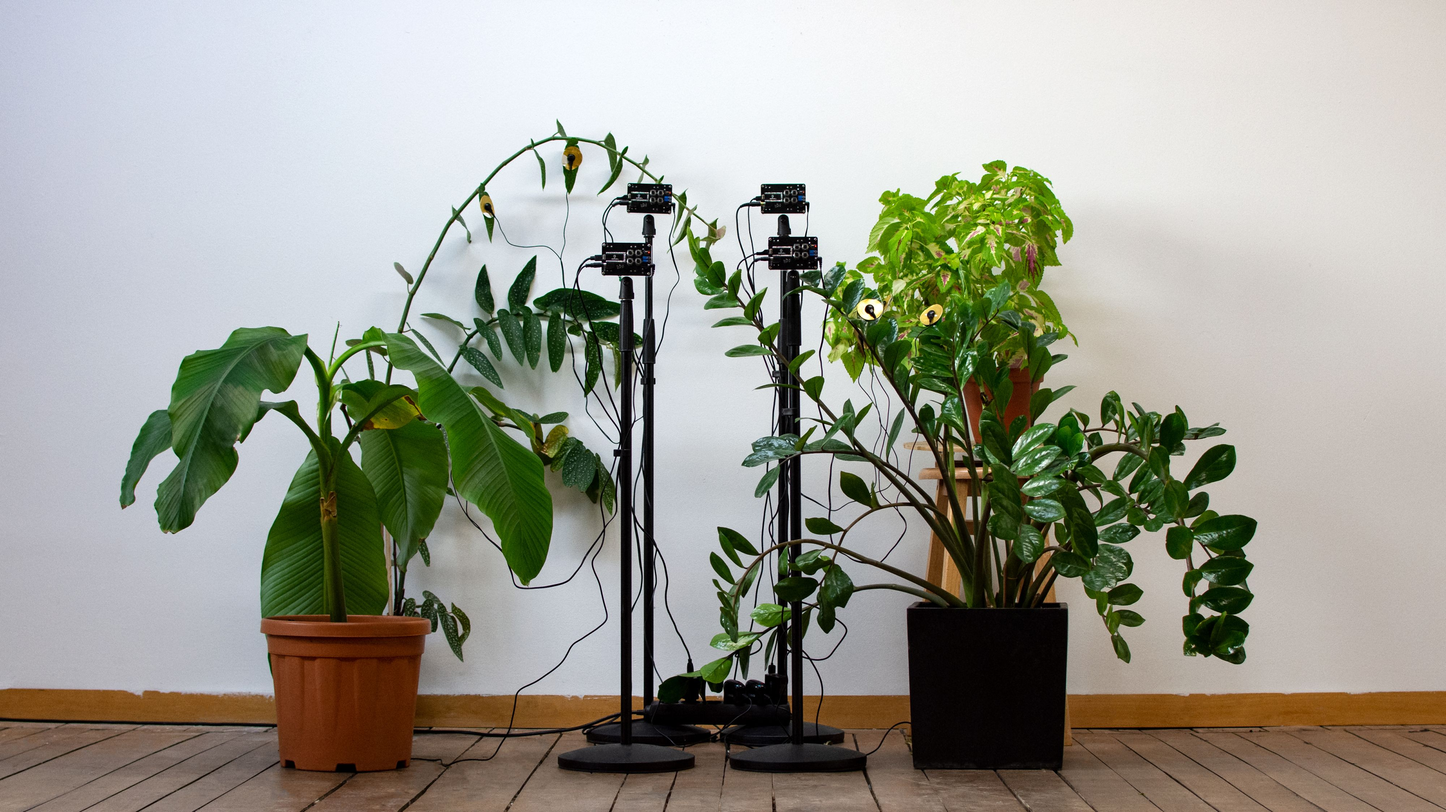
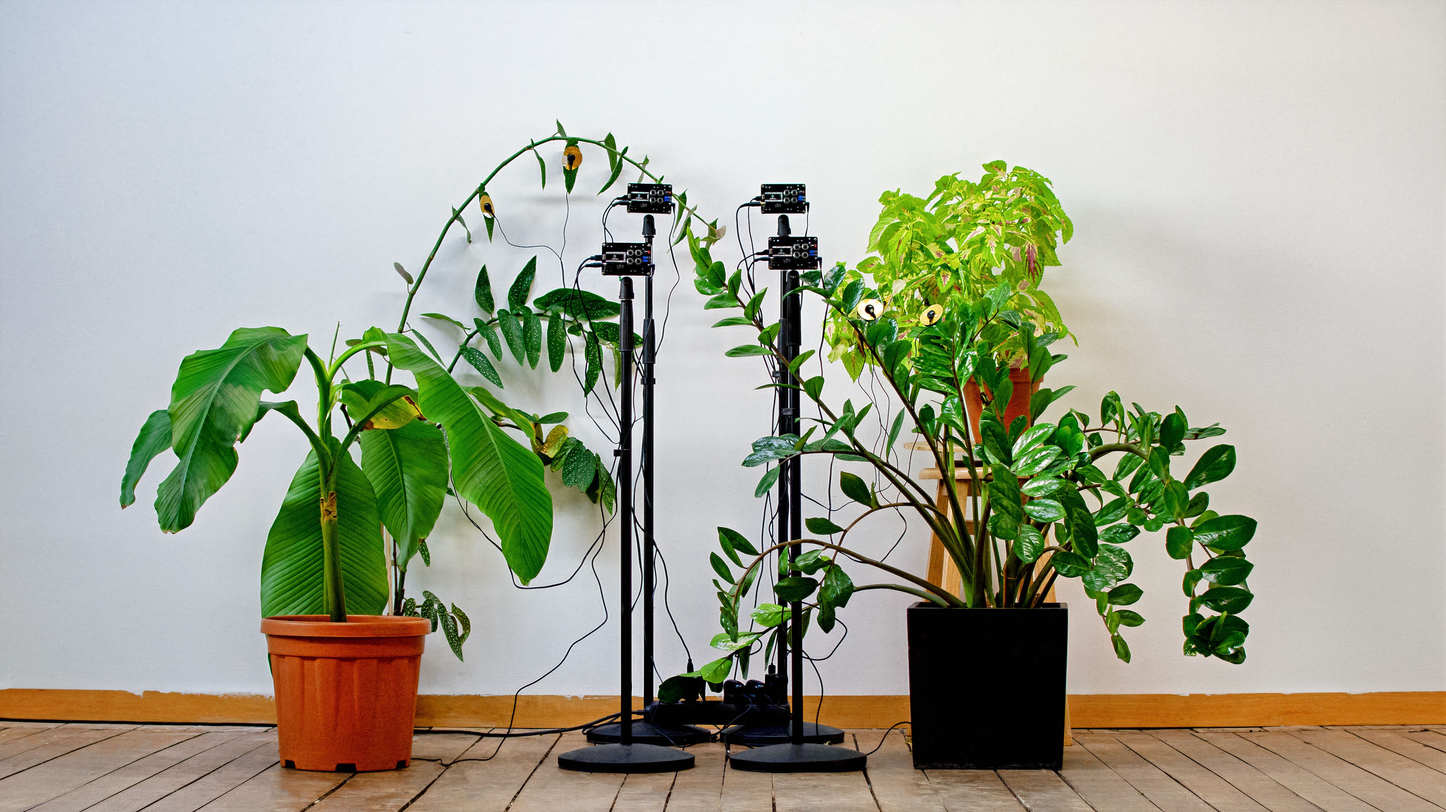
images optimization

diff --git a/README.md b/README.md
@@ -1,7 +1,9 @@
 ## The Plant Quartett
 ![](Imgs/installation_shot_web.jpg)
 
-The Plant Quartet is a sound installation that provides an ambient listening experience of plants by using multiple Soniplasts, a custom-designed instrument that translates biodata from plants into sound. Similar as Chloroplasts, which are organelles that conduct photosynthesis in plants, a Soniplast takes bioelectric potential data from a plant and use it to modulate a simple sine wave. Having multiple Soniplasts, the Plant Quartet pays attention to the relative differences in rhythmic cycles among plants and how they contribute together to a musical composition. By amplifying the ubiquitous existence of plants through sound, the objective of the project is to encourage an intimate relationship with plants in a slow, subtle and collective manner.
+The Plant Quartet is a sound installation that provides an ambient listening experience of plants by using multiple Soniplasts, a custom-designed instrument that translates biodata from plants into sound. Similar as Chloroplasts, which are organelles that conduct photosynthesis in plants, a Soniplast takes bioelectric potential data from a plant and use it to modulate a simple sine wave.
+
+The Plant Quartet pays attention to the relative differences in rhythmic cycles among plants and how they contribute together to a musical composition. By amplifying the ubiquitous existence of plants through sound, the objective of the project is to encourage an intimate relationship with plants in a slow, subtle and collective manner.
 
 ### Artist Bio
 Qianxun Chen is a media artist, programmer and researcher. She works at the intersection of art, technology and language, with a focus on generative poetics, the aesthetics of algorithm and digital textuality. Her works tend to bring up artistic and non-human perspectives of the world through alternative usage of technology.

diff --git a/pcb/pcbDesign.md b/pcb/pcbDesign.md
@@ -1,4 +1,4 @@
-![](pcb_photo.jpg)
+![](pcb_web.jpg)
 
 #### Schematics
 
